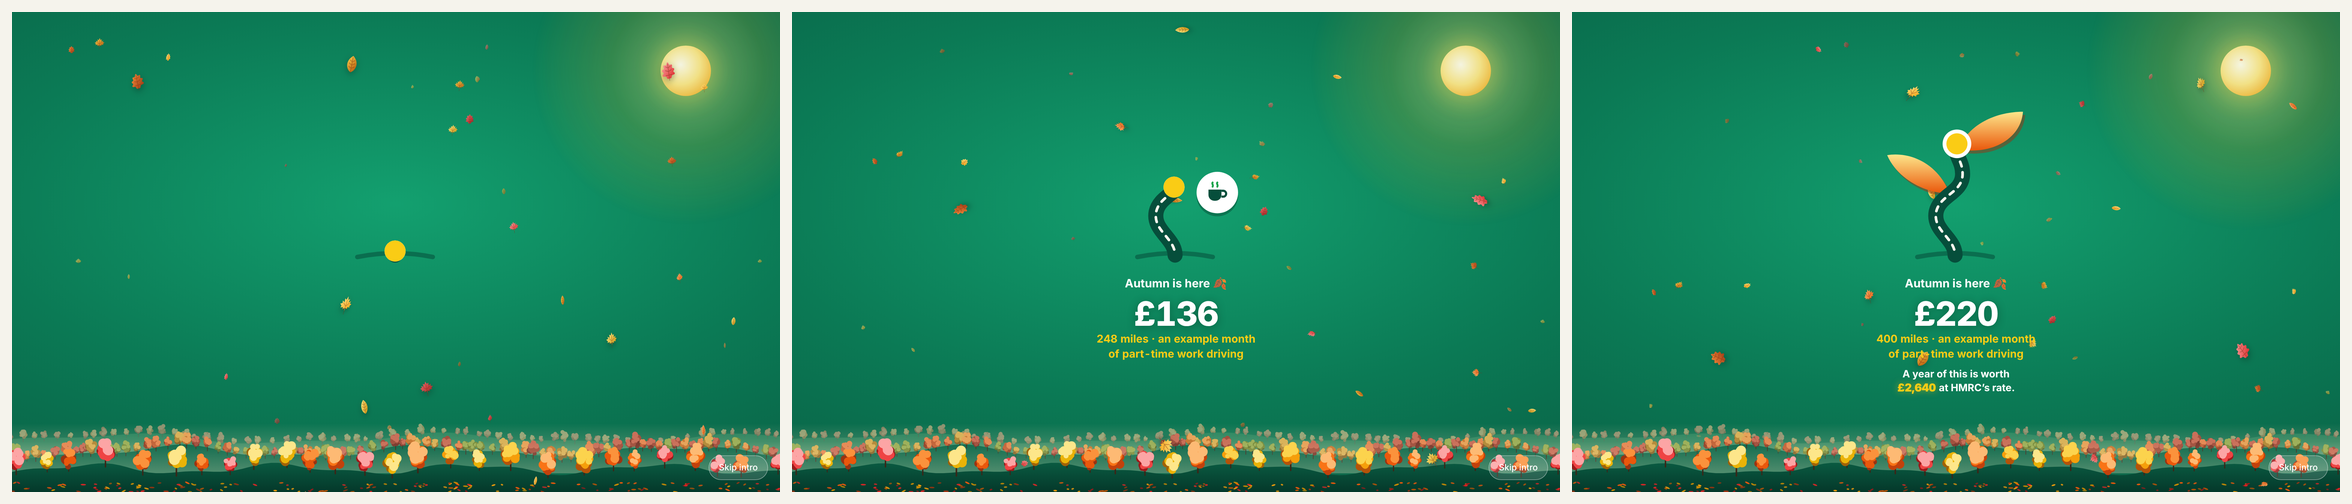
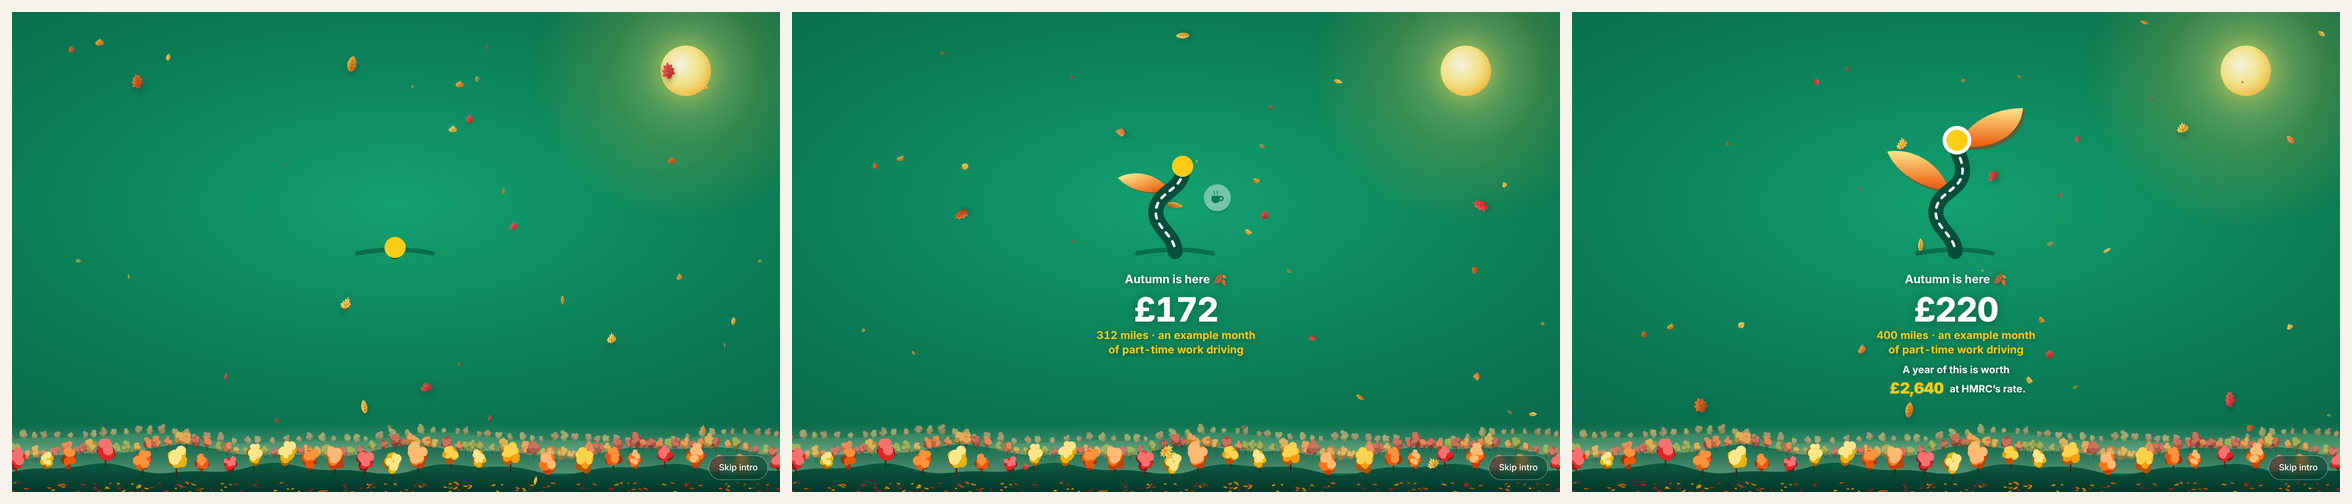
Website intro: marketing's fixes 1-6 (brand-review-intro.md)
1. The payoff holds: the year starts counting after the month lands
   (T_YEAR 1500), lands at ~2.1 s and holds ~0.9 s (T_MORPH 3000, END 3550).
2. £2,640 is the big moment: 1.55em, and a stronger gold pop.
3. No pink in autumn: crimson near trees and falling leaves; the back-row
   trees warmed to a golden haze.
4. The stage sits above the leaves (z-index 1), so leaves pass behind the
   sprout and the figures; a soft shadow keeps the small lines crisp.
5. Skip pill: dark green glass, readable over the trees.
6. season.js country() honours ?country= first, as the money does.
Frames for GB autumn regenerated (start, mid count, held £2,640, Reduce
Motion still); README updated, including the page's Canadian figures.

Claude-Session: https://claude.ai/code/session_01HV35bfD7NzTSNvA32BVxeb

diff --git a/website/assets/site.css b/website/assets/site.css
@@ -563,30 +563,32 @@ html.ms-intro::after {
 .sprout-intro { position: fixed; inset: 0; z-index: 101; overflow: hidden; transition: opacity .25s ease; }
 .sprout-intro.intro-out { opacity: 0; }
 .intro-bg { position: absolute; inset: 0; background: radial-gradient(120% 90% at 50% 40%, #0E9F6E 0%, #0B7A55 45%, #064E3B 100%); }
-.intro-stage { position: absolute; inset: 0; display: flex; flex-direction: column; align-items: center; justify-content: center; gap: 1.6vh; padding: 0 16px; }
+.intro-stage { position: absolute; inset: 0; z-index: 1; display: flex; flex-direction: column; align-items: center; justify-content: center; gap: 1.6vh; padding: 0 16px; }
 .intro-art { height: clamp(140px, 33vh, 330px); width: auto; aspect-ratio: 77 / 84; overflow: visible; transform-origin: 50% 50%; will-change: transform; }
 /* The counter, as in the app: the month's money (white), its miles (gold), and what a year of it is worth.
    Each number sits in a box sized to its final value (.ct-ghost), so nothing moves while it counts. */
 .intro-count { display: flex; flex-direction: column; align-items: center; gap: 2px; text-align: center; color: #FFFFFF; opacity: 0; max-width: 100%; }
 .sprout-intro.is-still .intro-count { opacity: 1; }
 .intro-count p { margin: 0; }
+.intro-count .intro-greeting, .ic-month, .ic-year { text-shadow: 0 1px 8px rgba(3, 28, 20, .5); } /* leaves pass behind; the words stay crisp */
 .ic-money { font-weight: 800; font-size: clamp(2.5rem, 7vh, 3.75rem); letter-spacing: -0.02em; line-height: 1.05; font-variant-numeric: tabular-nums; text-shadow: 0 2px 14px rgba(3, 28, 20, .35); }
 .ic-month { color: var(--gold); font-weight: 700; font-size: clamp(1rem, 2.3vh, 1.125rem); line-height: 1.35; max-width: 21em; font-variant-numeric: tabular-nums; text-wrap: balance; }
 .ic-year { margin-top: 8px !important; font-weight: 700; font-size: clamp(.95rem, 2.1vh, 1.05rem); line-height: 1.4; max-width: 22em; text-wrap: balance; opacity: 0; }
 .sprout-intro.is-still .ic-year { opacity: 1; }
-.ic-year strong { display: inline-block; margin: 0 .2em; color: var(--gold); font-variant-numeric: tabular-nums; }
+.ic-year strong { display: inline-block; margin: 0 .2em; font-size: 1.55em; vertical-align: -0.08em; color: var(--gold); font-variant-numeric: tabular-nums; }
 .ct { display: inline-grid; }
 .ct > span { grid-area: 1 / 1; }
 .ct-ghost { visibility: hidden; }
 .ct-mid > span { text-align: center; }
 .ct-end > span { text-align: right; }
 .ic-year strong.is-landed { animation: ic-land .55s cubic-bezier(.3, 1.6, .5, 1); }
-@keyframes ic-land { 0% { transform: scale(1); } 40% { transform: scale(1.16); text-shadow: 0 0 18px rgba(250, 204, 21, .9); } 100% { transform: scale(1); text-shadow: none; } }
+@keyframes ic-land { 0% { transform: scale(1); } 40% { transform: scale(1.22); text-shadow: 0 0 22px rgba(250, 204, 21, .95); } 100% { transform: scale(1); text-shadow: none; } }
 .intro-skip {
   position: absolute; right: 20px; bottom: 20px; font: inherit; font-size: .9rem; font-weight: 500; cursor: pointer;
-  color: #FFFFFF; background: rgba(255, 255, 255, .14); border: 1px solid rgba(255, 255, 255, .4); border-radius: 999px; padding: 8px 16px;
+  color: #FFFFFF; background: rgba(4, 56, 42, .55); -webkit-backdrop-filter: blur(6px); backdrop-filter: blur(6px); border: 1px solid rgba(255, 255, 255, .4); border-radius: 999px; padding: 8px 16px;
+  z-index: 2;
 }
-.intro-skip:hover { background: rgba(255, 255, 255, .24); }
+.intro-skip:hover { background: rgba(4, 56, 42, .75); }
 /* Reduce Motion: a still frame (the grown sprout, the final figures, the backdrop held mid-fall), then a fade */
 .sprout-intro.is-still *, .sprout-intro.is-still *::before, .sprout-intro.is-still *::after { animation-play-state: paused !important; }
 .sprout-intro.is-still .fx-near { display: none; } /* nothing frozen over the figures */

diff --git a/website/assets/season.js b/website/assets/season.js
@@ -14,6 +14,8 @@
   var US_ZONES = /^(America\/(New_York|Chicago|Denver|Los_Angeles|Phoenix|Anchorage|Adak|Boise|Detroit|Juneau|Sitka|Metlakatla|Nome|Yakutat|Menominee|Indiana\/.+|Kentucky\/.+|North_Dakota\/.+)|Pacific\/Honolulu|US\/.+)$/;
 
   function country() {
+    var forced = /[?&]country=(UK|GB|US|CA|AU)\b/i.exec(location.search);
+    if (forced) return forced[1].toUpperCase() === 'UK' ? 'GB' : forced[1].toUpperCase();
     var tz = '';
     try { tz = Intl.DateTimeFormat().resolvedOptions().timeZone || ''; } catch (err) { /* old browser */ }
     if (/^Australia\//.test(tz)) return 'AU';
@@ -405,7 +407,7 @@
     oak: 'M12 22V3.5M12 8l-3-1.5M12 8l3-1.5M12 12l-4-1.5M12 12l4-1.5M12 16l-4 0M12 16l4 0',
     beech: 'M12 22.5V3.5M12 9l-3-2M12 9l3-2M12 13l-3.6-2.2M12 13l3.6-2.2M12 17l-3.4-2M12 17l3.4-2'
   };
-  var AUTUMN = [['#FDE68A', '#F59E0B'], ['#FDBA74', '#EA580C'], ['#FCA5A5', '#DC2626'], ['#FCD34D', '#B45309'], ['#FB923C', '#9A3412'], ['#FEF08A', '#CA8A04'], ['#F87171', '#991B1B']];
+  var AUTUMN = [['#FDE68A', '#F59E0B'], ['#FDBA74', '#EA580C'], ['#F87171', '#B91C1C'], ['#FCD34D', '#B45309'], ['#FB923C', '#9A3412'], ['#FEF08A', '#CA8A04'], ['#F87171', '#991B1B']];
   function leafPiece(i, size) {
     var shape = ['maple', 'oak', 'maple', 'beech'][i % 4];
     return '<svg width="' + size + '" height="' + size + '" viewBox="0 0 24 24"><path d="' + LEAF_SHAPES[shape] + '" fill="url(#fx-al' + (i * 3 % AUTUMN.length) + ')"/>' +
@@ -438,13 +440,13 @@
       litter += '<ellipse cx="' + lx + '" cy="' + ly + '" rx="' + (1.6 + seed(i, 23) * 2.2).toFixed(1) + '" ry="1.1" fill="' + c + '" opacity="' + (0.7 + seed(i, 25) * 0.3).toFixed(2) + '" transform="rotate(' + ((seed(i, 24) - 0.5) * 60).toFixed(0) + ' ' + lx + ' ' + ly + ')"/>';
     }
     var FAR = [['#E7A35A', '#C97A35', '#9C5A2A'], ['#E58A55', '#C4643A', '#93452B'], ['#D9B25A', '#B38A3A', '#86662A'], ['#C9705A', '#A2513F', '#7A3A2E'], ['#9DB05A', '#7C8F3F', '#5C6B2E']];
-    var NEAR = [['#FCD34D', '#F59E0B', '#B45309'], ['#FDBA74', '#F97316', '#C2410C'], ['#FCA5A5', '#EF4444', '#991B1B'], ['#FDE68A', '#EAB308', '#A16207'], ['#FB923C', '#EA580C', '#9A3412']];
+    var NEAR = [['#FCD34D', '#F59E0B', '#B45309'], ['#FDBA74', '#F97316', '#C2410C'], ['#F87171', '#DC2626', '#7F1D1D'], ['#FDE68A', '#EAB308', '#A16207'], ['#FB923C', '#EA580C', '#9A3412']];
     return tints('fx-al', AUTUMN) +
       '<span class="fx-sunglow"></span><span class="fx-sun-disc"></span>' + layer('far', 18, leafPiece) +
       '<svg class="fx-land" viewBox="0 0 ' + W + ' 140" preserveAspectRatio="xMidYMax slice" aria-hidden="true"><defs>' +
         '<linearGradient id="fx-mist" x1="0" y1="0" x2="0" y2="1"><stop offset="0" stop-color="#FDE7C7" stop-opacity="0"/><stop offset="1" stop-color="#FDE7C7" stop-opacity=".28"/></linearGradient>' +
         '<linearGradient id="fx-ground" x1="0" y1="0" x2="0" y2="1"><stop offset="0" stop-color="#0A5A41"/><stop offset="1" stop-color="#04382A"/></linearGradient></defs>' +
-        '<g opacity=".6"><path d="' + ridgePath(back, W) + '" fill="#2E8A62"/>' + trees(back, -4, 16, 5, [['#E9C08A', '#D9A066', '#B9855A'], ['#E3A684', '#CC8A6A', '#A86E58']], '#6B5A4A', 20, W) + '</g>' +
+        '<g opacity=".6"><path d="' + ridgePath(back, W) + '" fill="#2E8A62"/>' + trees(back, -4, 16, 5, [['#F2C27A', '#E0A25A', '#C0823F'], ['#EDA37A', '#D9844F', '#B4653A']], '#6B5A4A', 20, W) + '</g>' +
         '<rect x="-10" y="44" width="' + (W + 20) + '" height="44" fill="url(#fx-mist)"/>' +
         '<path d="' + ridgePath(far, W) + '" fill="#0E6A4C"/>' + trees(far, -6, 13, 7, FAR, '#3F2A1D', 30, W) +
         '<rect x="-10" y="70" width="' + (W + 20) + '" height="44" fill="url(#fx-mist)"/>' +

diff --git a/website/assets/site.js b/website/assets/site.js
@@ -13,7 +13,7 @@
      Only when intro-gate.js has put up its cover (first visit this session). The seed wakes, the road
      grows up as the stem past the road signs, the leaves unfold, and, as in the app, an example month's
      money and miles count up with the drive; then "A year of this is worth …" counts up and lands.
-     In a season (season.js) the sprout dresses up and the backdrop changes. About 2.75 s, then the
+     In a season (season.js) the sprout dresses up and the backdrop changes. About 3.5 s (the year holds ~0.9 s), then the
      sprout flies to the header logo. Tap, click, a key or scrolling ends it. With Reduce Motion it's a
      still: the grown sprout and the final figures, faded away after 2 s. The overlay is aria-hidden;
      the figures are read out once through a polite status line.
@@ -196,7 +196,7 @@
       var drop = !!(season && season.id === 'festive');
 
       var T_DRIVE = 200, DRIVE = 1250, T_LOW = 900, T_UP = 1150, LEAF = 300, T_RING = 1450,
-          T_YEAR = 1300, YEAR = 550, T_MORPH = 2200, MORPH = 500, END = 2750;
+          T_YEAR = 1500, YEAR = 550, T_MORPH = 3000, MORPH = 500, END = 3550; // the year lands at ~2.1 s and holds before the flight
       var inOut = function (x) { return x < 0.5 ? 4 * x * x * x : 1 - Math.pow(-2 * x + 2, 3) / 2; };
       var easeOut = function (x) { return 1 - Math.pow(1 - x, 3); };
       var back = function (x, k) { var c3 = k + 1; return 1 + c3 * Math.pow(x - 1, 3) + k * Math.pow(x - 1, 2); };

diff --git a/website/index.html b/website/index.html
@@ -18,10 +18,10 @@
 <link rel="icon" href="/favicon-32.png" sizes="32x32" type="image/png">
 <link rel="apple-touch-icon" href="/apple-touch-icon.png">
 <link rel="preload" href="/assets/img/screens/home.webp" as="image" type="image/webp">
-<link rel="stylesheet" href="/assets/site.css?v=188fbb10">
+<link rel="stylesheet" href="/assets/site.css?v=be734af7">
 <script src="/assets/intro-gate.js?v=56dc1bca"></script>
-<script src="/assets/season.js?v=4f39a0d6" defer></script>
-<script src="/assets/site.js?v=0757f3ab" defer></script>
+<script src="/assets/season.js?v=101642d5" defer></script>
+<script src="/assets/site.js?v=f865dad9" defer></script>
 <noscript><style>
   /* Without JavaScript: every feature is listed, the deck is a still picture. */
   .feat { opacity: 1 !important; visibility: visible !important; transform: none !important; grid-area: auto !important; }

diff --git a/website/testers.html b/website/testers.html
@@ -17,8 +17,8 @@
 <link rel="icon" href="/favicon.svg" type="image/svg+xml">
 <link rel="icon" href="/favicon-32.png" sizes="32x32" type="image/png">
 <link rel="apple-touch-icon" href="/apple-touch-icon.png">
-<link rel="stylesheet" href="/assets/site.css?v=188fbb10">
-<script src="/assets/site.js?v=0757f3ab" defer></script>
+<link rel="stylesheet" href="/assets/site.css?v=be734af7">
+<script src="/assets/site.js?v=f865dad9" defer></script>
 </head>
 <body>
 <a class="skip" href="#main">Skip to content</a>

diff --git a/website/waitlist.html b/website/waitlist.html
@@ -10,8 +10,8 @@
 <link rel="icon" href="/favicon.svg" type="image/svg+xml">
 <link rel="icon" href="/favicon-32.png" sizes="32x32" type="image/png">
 <link rel="apple-touch-icon" href="/apple-touch-icon.png">
-<link rel="stylesheet" href="/assets/site.css?v=188fbb10">
-<script src="/assets/site.js?v=0757f3ab" defer></script>
+<link rel="stylesheet" href="/assets/site.css?v=be734af7">
+<script src="/assets/site.js?v=f865dad9" defer></script>
 </head>
 <body>
 <a class="skip" href="#main">Skip to content</a>

diff --git a/website/partners.html b/website/partners.html
@@ -10,7 +10,7 @@
 <link rel="icon" href="/favicon.svg" type="image/svg+xml">
 <link rel="icon" href="/favicon-32.png" sizes="32x32" type="image/png">
 <link rel="apple-touch-icon" href="/apple-touch-icon.png">
-<link rel="stylesheet" href="/assets/site.css?v=188fbb10">
+<link rel="stylesheet" href="/assets/site.css?v=be734af7">
 </head>
 <body>
 <a class="skip" href="#main">Skip to content</a>

diff --git a/website/privacy.html b/website/privacy.html
@@ -10,7 +10,7 @@
 <link rel="icon" href="/favicon.svg" type="image/svg+xml">
 <link rel="icon" href="/favicon-32.png" sizes="32x32" type="image/png">
 <link rel="apple-touch-icon" href="/apple-touch-icon.png">
-<link rel="stylesheet" href="/assets/site.css?v=188fbb10">
+<link rel="stylesheet" href="/assets/site.css?v=be734af7">
 </head>
 <body>
 <a class="skip" href="#main">Skip to content</a>

diff --git a/website/r/index.html b/website/r/index.html
@@ -10,7 +10,7 @@
 <link rel="icon" href="/favicon.svg" type="image/svg+xml">
 <link rel="icon" href="/favicon-32.png" sizes="32x32" type="image/png">
 <link rel="apple-touch-icon" href="/apple-touch-icon.png">
-<link rel="stylesheet" href="/assets/site.css?v=188fbb10">
+<link rel="stylesheet" href="/assets/site.css?v=be734af7">
 </head>
 <body>
 <a class="skip" href="#main">Skip to content</a>

diff --git a/website/support.html b/website/support.html
@@ -10,7 +10,7 @@
 <link rel="icon" href="/favicon.svg" type="image/svg+xml">
 <link rel="icon" href="/favicon-32.png" sizes="32x32" type="image/png">
 <link rel="apple-touch-icon" href="/apple-touch-icon.png">
-<link rel="stylesheet" href="/assets/site.css?v=188fbb10">
+<link rel="stylesheet" href="/assets/site.css?v=be734af7">
 </head>
 <body>
 <a class="skip" href="#main">Skip to content</a>

diff --git a/website/404.html b/website/404.html
@@ -9,7 +9,7 @@
 <link rel="icon" href="/favicon.svg" type="image/svg+xml">
 <link rel="icon" href="/favicon-32.png" sizes="32x32" type="image/png">
 <link rel="apple-touch-icon" href="/apple-touch-icon.png">
-<link rel="stylesheet" href="/assets/site.css?v=188fbb10">
+<link rel="stylesheet" href="/assets/site.css?v=be734af7">
 </head>
 <body>
 <a class="skip" href="#main">Skip to content</a>

diff --git a/website/README.md b/website/README.md
@@ -29,12 +29,12 @@ Links between pages are extensionless (`/privacy`), which is how Cloudflare Page
 
 ## How the home page moves
 
-- **Intro (first visit in a browser session):** the app's first-run opening (`milemint/src/components/launch-intro.tsx`, `FullIntro`), about 2.75 s. The seed wakes in the soil, the road grows up with the gold dot at its tip laying the lane dashes, past the road signs, and the leaves unfold. As in the app, the money and miles of an example month count up with the drive: "£220 / 400 miles · an example month of part-time work driving" (US $304 and 400 miles, Canada $475 and 650 km, Australia $592 and 650 km). Then "A year of this is worth £2,640 at HMRC’s rate." counts up and lands with a small gold pop (US $3,648 at the IRS’s rate; Canada "about $5,526 at the CRA’s allowance rate"; Australia $4,550 at the ATO’s rate). The wording and figures are the app's, word for word, from `regions.ts` (`APP_REGIONS` in `site.js`; `tests/website-intro.test.mjs` checks them against `regions.ts` and the research-checked totals in `research_notes/launch-2026/website-claims-check.md` §3). Then the sprout flies to the header logo while the green lifts away. Click, tap, any key, scrolling or "Skip intro" ends it. Every number sits in a box sized to its final value, so nothing moves while it counts. The overlay is `aria-hidden`; the figures are read out once through a polite status line, then it's removed. **Reduce Motion:** a still frame (the grown sprout with its season dress, the final figures, the backdrop held still), faded away after 2.2 s. Without JavaScript there's no intro. `sessionStorage` key `ms-intro-seen` marks it as played; `?intro=1` or `?season=<id>` plays it again, `?country=US` picks the money.
+- **Intro (first visit in a browser session):** the app's first-run opening (`milemint/src/components/launch-intro.tsx`, `FullIntro`), about 3.5 s. The seed wakes in the soil, the road grows up with the gold dot at its tip laying the lane dashes, past the road signs, and the leaves unfold. As in the app, the money and miles of an example month count up with the drive: "£220 / 400 miles · an example month of part-time work driving" (US $304 and 400 miles, Canada $467 and 640 km, Australia $582 and 640 km: the page keeps one example, 100 miles or 160 km a week for 48 weeks, shared with the money line and calculator; the app itself uses 650 km). Then "A year of this is worth £2,640 at HMRC’s rate." counts up after the month has landed, lands with a gold pop and holds for about 0.9 s (US $3,648 at the IRS’s rate; Canada "about $5,446 at the CRA’s allowance rate"; Australia $4,550 at the ATO’s rate). The wording and figures are the app's, word for word, from `regions.ts` (`APP_REGIONS` in `site.js`; `tests/website-intro.test.mjs` checks them against `regions.ts` and the research-checked totals in `research_notes/launch-2026/website-claims-check.md` §3). Then the sprout flies to the header logo while the green lifts away. Click, tap, any key, scrolling or "Skip intro" ends it. Every number sits in a box sized to its final value, so nothing moves while it counts. The overlay is `aria-hidden`; the figures are read out once through a polite status line, then it's removed. **Reduce Motion:** a still frame (the grown sprout with its season dress, the final figures, the backdrop held still), faded away after 2.2 s. Without JavaScript there's no intro. `sessionStorage` key `ms-intro-seen` marks it as played; `?intro=1` or `?season=<id>` plays it again, `?country=US` picks the money.
 - **Road signs and seasons (`season.js`, ported from the app):** a petrol station, shops and a café pop up beside the road as the dot reaches them. **Which season shows** comes from the calendar in `season.js` (`QUIET`, `CELEBRATIONS`, `SEASONS`, from `research_notes/launch-2026/scene-calendar.md`), by the browser's **time zone only**: unknown places (EU, a hidden zone) get no season, nor does Darwin and the Top End (wet and dry seasons). A quiet day (Remembrance, Veterans Day, Memorial Day, Juneteenth, Truth and Reconciliation Day, Anzac Day, Australia Day, Melbourne Cup in Victoria) beats everything; then a celebration whose art is live; then a live season. **Live now: northern autumn only** (UK 1 Oct – 25 Nov; US and Canada 15 Sep – 10 Nov), redrawn: a low autumn sun, three misty ridges of turning trees, leaf litter, and maple, oak and beech leaves falling at three depths with a gentle 3D flutter; the sprout's leaves turn gold and orange. **Drawn, not live:** the Australian jacaranda spring (NSW 25 Oct – 30 Nov, QLD 25 – 31 Oct): flip `live` in `SEASONS` once it passes marketing and QA. Every other season and celebration (the old festive, Halloween, New Year, winter, spring, summer and outback art) stays off for visitors; `?season=<id>` previews any of them, `?season=none` none. The festive reindeer all have brown noses. The hero's sprout mark wears the season's hat and colours with the greeting under it.
 
 - **Hero scene:** the phone sits in a car mount with a stylised road going by (SVG drawn by `site.js`: kerb, centre line, posts, trees). Its screen is a 9.6 s recording of the real app (`assets/video/drive-logged.*`): driving ("Recording a drive"), parked, the new drive on Home (Meanwood Rd → Home, 2.2 mi), swiped to Work, the total up by £1.21. The road follows the clip's clock: it slows, pulls in to the kerb and stops as the drive is saved, and sets off again when it loops. It simply loops (no buttons, the founder's call) while on screen (the video isn't fetched before), waits for the sprout intro, and on desktop the road leans a little with the pointer. The road runs on its own clock and only follows the video when it plays, so if iOS refuses autoplay (Low Power Mode), the road still drives and the phone shows the two posters in step; the video is tried again on the first touch, click or scroll. On phones it's a short wide band above the headline (so the headline and "See how it works" stay in the first screen); on desktop it fills the right column. The big faint sprout drifts slower than the page.
 - **Feature deck:** eight phones in a fanned stack. Hover fans it out; flick with a horizontal trackpad swipe (one swipe = one card), a mouse drag or touch swipe (throw it), the arrow keys, the dots or the buttons. The caption beside it crossfades to the matching feature, and a polite live region announces "3 of 8: …".
-- **Money line and calculator:** under the hero h1, "An example year of part-time work driving is worth £2,640 at HMRC's rate" (US $3,648, Canada $5,526 at the CRA's allowance rate, Australia $4,550; 400 mi / 650 km a month). The sign-up section opens with "What are your work miles worth?": a slider for work miles (km in Canada and Australia) a week, 10–600 mi or 15–1,000 km, default 100 mi / 160 km, and four flag chips for the country (a radio group: arrow keys move between them; the chosen flag lifts with a gold ring and a small pop). The yearly amount counts up or down to each new figure (about half a second, tabular figures) and shimmers once when it crosses a 1,000; the slider is gold, filled up to its thumb, with a bigger thumb on touch screens; its whole 52–56 px band takes the finger (tap anywhere to jump, drag sideways to slide, swipe up or down to scroll). The flags sit 2×2 under 420 px. With Reduce Motion the values just change. The yearly figure follows each country's rules (UK 55p then 25p after 10,000 miles; US 76¢; Canada 73¢ then 67¢ after 5,000 km; Australia 91c capped at 5,000 km), over 48 working weeks, with a source link per rate. Both say "worth … at the tax office's rate", never "money back". The country comes from `season.js` (time zone, then language; `?country=CA` previews one); choosing one in the calculator also ticks that country in the form. The result is read out once the slider stops. Without JS both show the UK example. Rates live in `RATES` in `site.js`: update them with `milemint/src/domain/regions.ts`.
+- **Money line and calculator:** under the hero h1, "An example year of part-time work driving is worth £2,640 at HMRC's rate" (US $3,648, Canada about $5,446 at the CRA's allowance rate, Australia $4,550; 400 mi / 650 km a month). The sign-up section opens with "What are your work miles worth?": a slider for work miles (km in Canada and Australia) a week, 10–600 mi or 15–1,000 km, default 100 mi / 160 km, and four flag chips for the country (a radio group: arrow keys move between them; the chosen flag lifts with a gold ring and a small pop). The yearly amount counts up or down to each new figure (about half a second, tabular figures) and shimmers once when it crosses a 1,000; the slider is gold, filled up to its thumb, with a bigger thumb on touch screens; its whole 52–56 px band takes the finger (tap anywhere to jump, drag sideways to slide, swipe up or down to scroll). The flags sit 2×2 under 420 px. With Reduce Motion the values just change. The yearly figure follows each country's rules (UK 55p then 25p after 10,000 miles; US 76¢; Canada 73¢ then 67¢ after 5,000 km; Australia 91c capped at 5,000 km), over 48 working weeks, with a source link per rate. Both say "worth … at the tax office's rate", never "money back". The country comes from `season.js` (time zone, then language; `?country=CA` previews one); choosing one in the calculator also ticks that country in the form. The result is read out once the slider stops. Without JS both show the UK example. Rates live in `RATES` in `site.js`: update them with `milemint/src/domain/regions.ts`.
 - **Opening position:** the page always opens at the top unless the URL has a #hash (`intro-gate.js` sets `history.scrollRestoration = 'manual'`; Safari used to restore the last position, and with smooth scrolling that looked like the page driving itself to the screens). `html, body { overflow-x: clip }` is a safety net against sideways panning.
 - **Reduced motion:** the hero scene is a still picture of the saved state (the video's `drive-logged-saved.webp` poster, the road parked), nothing flies or rotates, the deck just crossfades.
 - **No JavaScript:** the same still hero scene, the deck's top card, and every feature listed in full (a `<noscript>` style in `index.html`).
